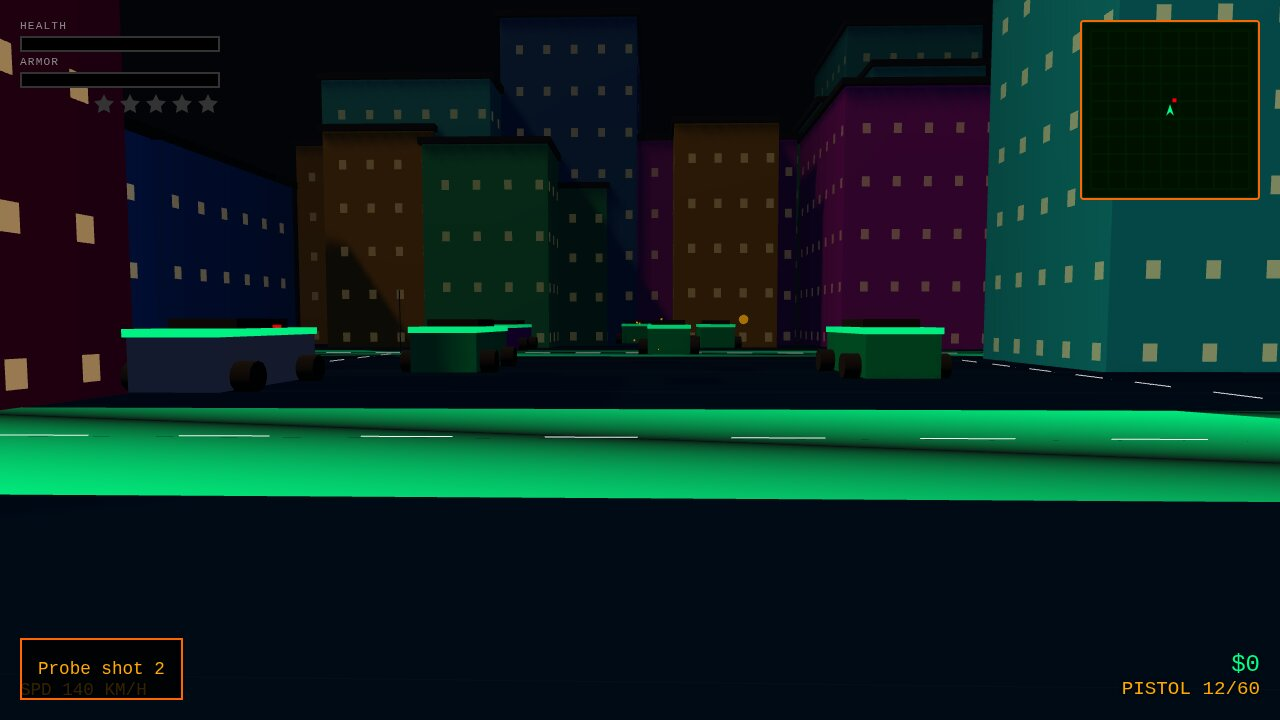
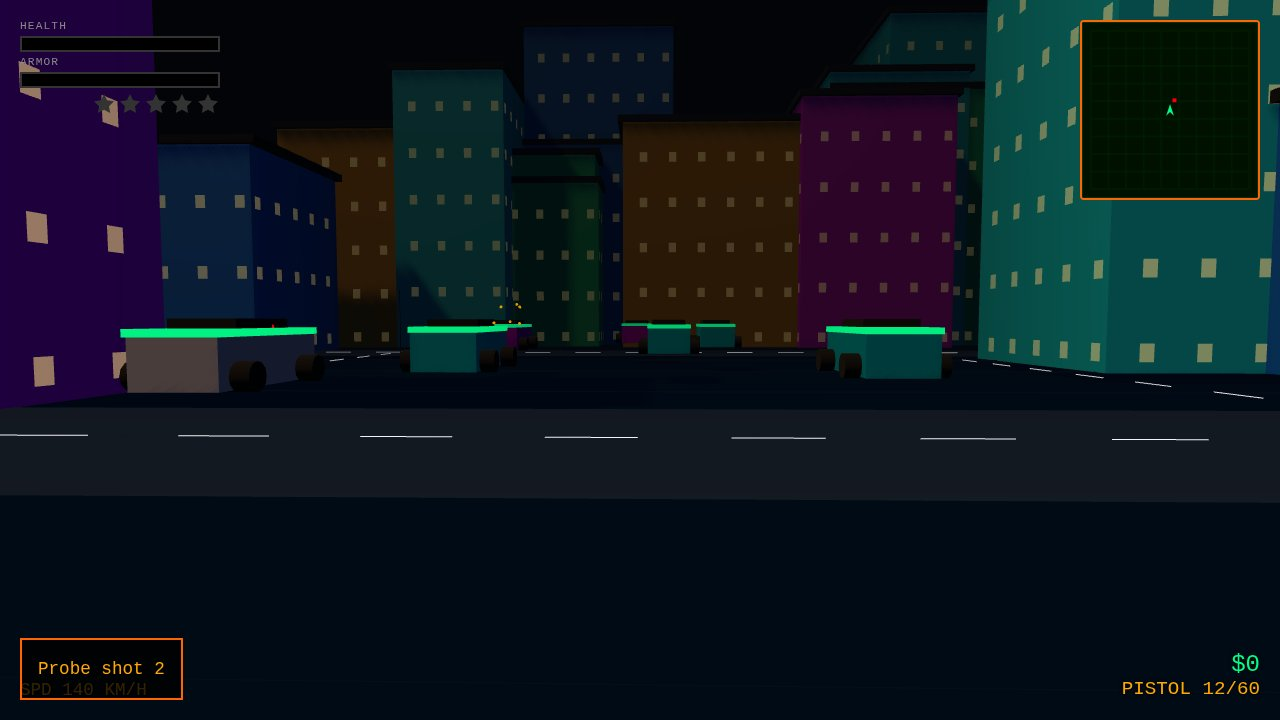
probe scenes: flat asphalt road in staged shots, recapture 1280x720

diff --git a/game/src/core/Game.js b/game/src/core/Game.js
@@ -241,6 +241,15 @@ Game.prototype._initProbeScene = function () {
     if (this.world.instMesh) this.world.instMesh.visible = false;
     this.world.collisionBounds.length = 0;
 
+    // The live roads bake a neon-green vertex-color gradient that floods a
+    // staged night frame. For probe captures only, swap in flat dark asphalt.
+    if (this.world.roads && this.world.roads.mesh) {
+        this.world.roads.mesh.material = new THREE.MeshBasicMaterial({
+            color: 0x141a22,
+            side: THREE.DoubleSide
+        });
+    }
+
     // Default player pose for the staged shot.
     this.player.spawn(0, 1, 16, 0);
     this.player.setOnFoot(true);
